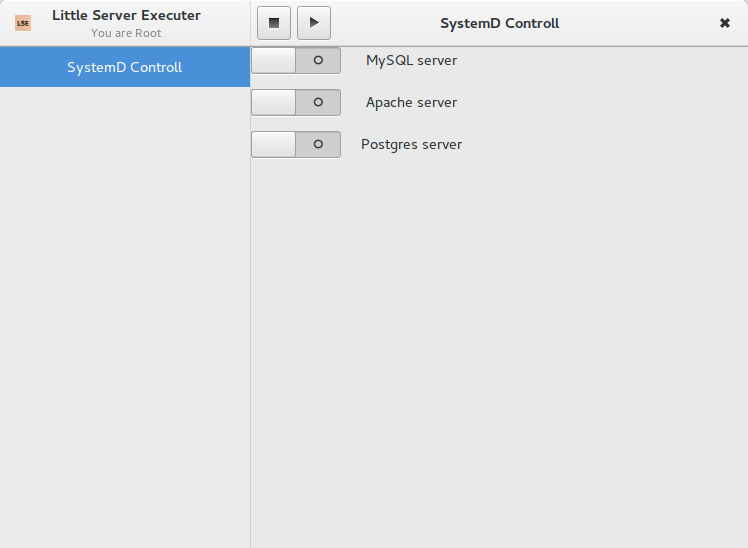
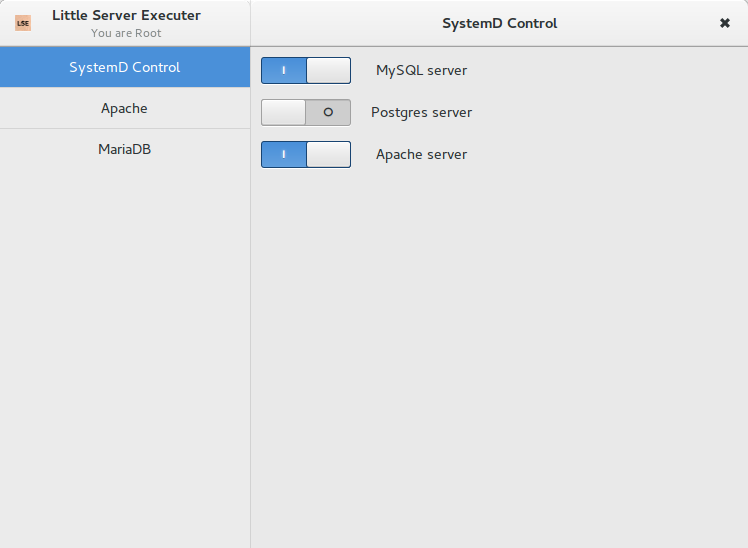
Some little changes

diff --git a/littleServerExecuter.py b/littleServerExecuter.py
@@ -64,9 +64,8 @@ class LittleServerExecuterApp(Gtk.Application):
 	
 	""" Main Grid """
 	grid = None
-	""" Revealer """
-	revealer = None
-	
+	stack = None
+
 	""" """
 	mainView = None
 
@@ -74,6 +73,7 @@ class LittleServerExecuterApp(Gtk.Application):
 	uid = None
 
 	name = "Little Server Executer"
+	dynbox = None
 
 	""" Constructor """
 	def __init__(self):
@@ -132,7 +132,7 @@ class LittleServerExecuterApp(Gtk.Application):
 
 		self.appHB.props.show_close_button = True
 		self.partHB.props.show_close_button = True
-
+		self.recomposeUI(0)
 		self.updateDecorations(Gtk.Settings.get_default(), None)
 
 		self.appHB.set_title(self.name)
@@ -152,22 +152,6 @@ class LittleServerExecuterApp(Gtk.Application):
 
 		if self.uid == 0:
 			self.appHB.set_subtitle("You are Root")
-			stopAllButton = Gtk.Button.new_from_icon_name("media-playback-stop"
-				, Gtk.IconSize.BUTTON)
-			self.partHB.pack_start(stopAllButton)
-
-			startAllButton = Gtk.Button.new_from_icon_name("media-playback-start"
-				, Gtk.IconSize.BUTTON)
-			self.partHB.pack_start(startAllButton)
-
-			startAllButton.set_tooltip_text("Start all services that have"
-				+ " not been started yet")
-			stopAllButton.set_tooltip_text("Stop all services that have"
-				+ " not been stoped yet")
-
-			startAllButton.connect("clicked", self.startAllServicesNow)
-			stopAllButton.connect("clicked", self.stopAllServicesNow)
-
 		else:
 			self.appHB.set_subtitle("You are a regular user")
 			readOnlyStatus = Gtk.Image.new_from_icon_name("emblem-readonly"
@@ -223,12 +207,12 @@ class LittleServerExecuterApp(Gtk.Application):
 		row = Gtk.ListBoxRow()
 		row.get_style_context().add_class("lse-sidebar-row")
 		row.add(Gtk.Label(label = "Apache"))
-		listbox.add(row)
+		#listbox.add(row)
 
 		row = Gtk.ListBoxRow()
 		row.get_style_context().add_class("lse-sidebar-row")
 		row.add(Gtk.Label(label = "MariaDB"))
-		listbox.add(row)
+		#listbox.add(row)
 
 		return box
 
@@ -237,20 +221,47 @@ class LittleServerExecuterApp(Gtk.Application):
 			row.set_header(
 				Gtk.Separator(orientation = Gtk.Orientation.HORIZONTAL))
 
-	def changeViewpoint(self, arg1, arg2):
-		if self.revealer.get_reveal_child():
-			self.revealer.set_reveal_child(False)
-		else:
-			self.revealer.set_reveal_child(True)
-		#box = Gtk.Box()
+	def changeViewpoint(self, list, row):
+		if isinstance(row, Gtk.ListBoxRow):
+			self.stack.set_visible_child_name("%i" % row.get_index())
+			self.recomposeUI(row.get_index())
+
+	def recomposeUI(self, number):
+		"""if self.uid == 0:
+			stopAllButton = Gtk.Button.new_from_icon_name("media-playback-stop"
+				, Gtk.IconSize.BUTTON)
+
+			startAllButton = Gtk.Button.new_from_icon_name("media-playback-start"
+				, Gtk.IconSize.BUTTON)
+			startAllButton.set_tooltip_text("Start all services that have"
+				+ " not been started yet")
+			stopAllButton.set_tooltip_text("Stop all services that have"
+				+ " not been stoped yet")
+			startAllButton.connect("clicked", self.startAllServicesNow)
+			stopAllButton.connect("clicked", self.stopAllServicesNow)
+
+			#self.dynbox.pack_start(stopAllButton, False, False, 0)
+			#self.dynbox.pack_start(startAllButton, False, False, 0)
+
+			self.partHB.pack_start(stopAllButton)
+			self.partHB.pack_start(startAllButton)"""
+
+		if number == 0:
+			self.partHB.set_title("SystemD Control")
+		elif number == 1:
+			self.partHB.set_title("Apache")
+		elif number == 2:
+			self.partHB.set_title("MariaDB")
 
 	def mainContent(self):
 		self.grid = Gtk.Grid()
-		self.revealer = Gtk.Revealer()
-		self.revealer.set_reveal_child(True)
-		self.revealer.add(self.grid)
-		self.revealer.add(Gtk.Label(label = "Test"))
-		return self.revealer
+		self.grid.set_border_width(10)
+		self.stack = Gtk.Stack()
+		self.stack.set_transition_type(Gtk.StackTransitionType.SLIDE_UP_DOWN)
+		self.stack.add_named(self.grid, "0")
+		self.stack.add_named(Gtk.Label(label = "Apache"), "1")
+		self.stack.add_named(Gtk.Button(label = "MariaDB"), "2")
+		return self.stack
 
 	def startAllServicesNow(self, widget):
 		for (service, data) in self.services.items():
